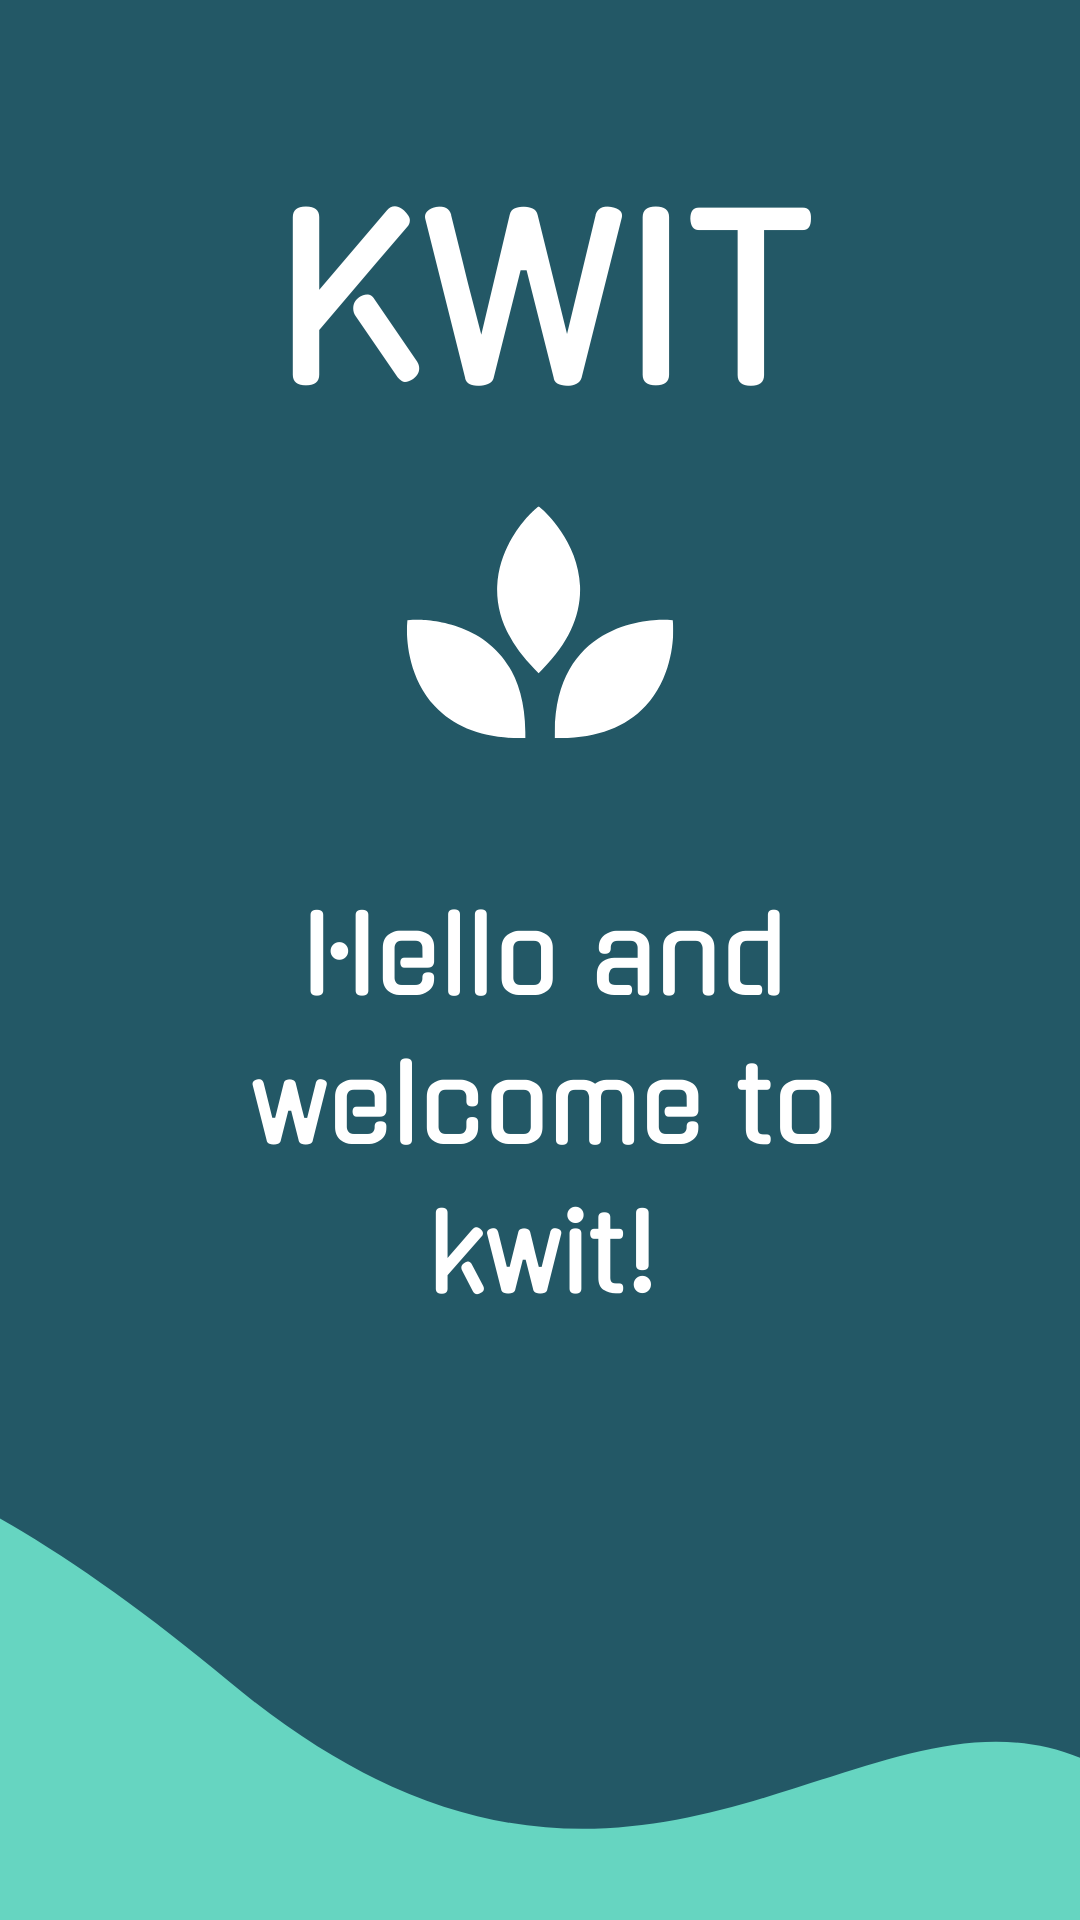
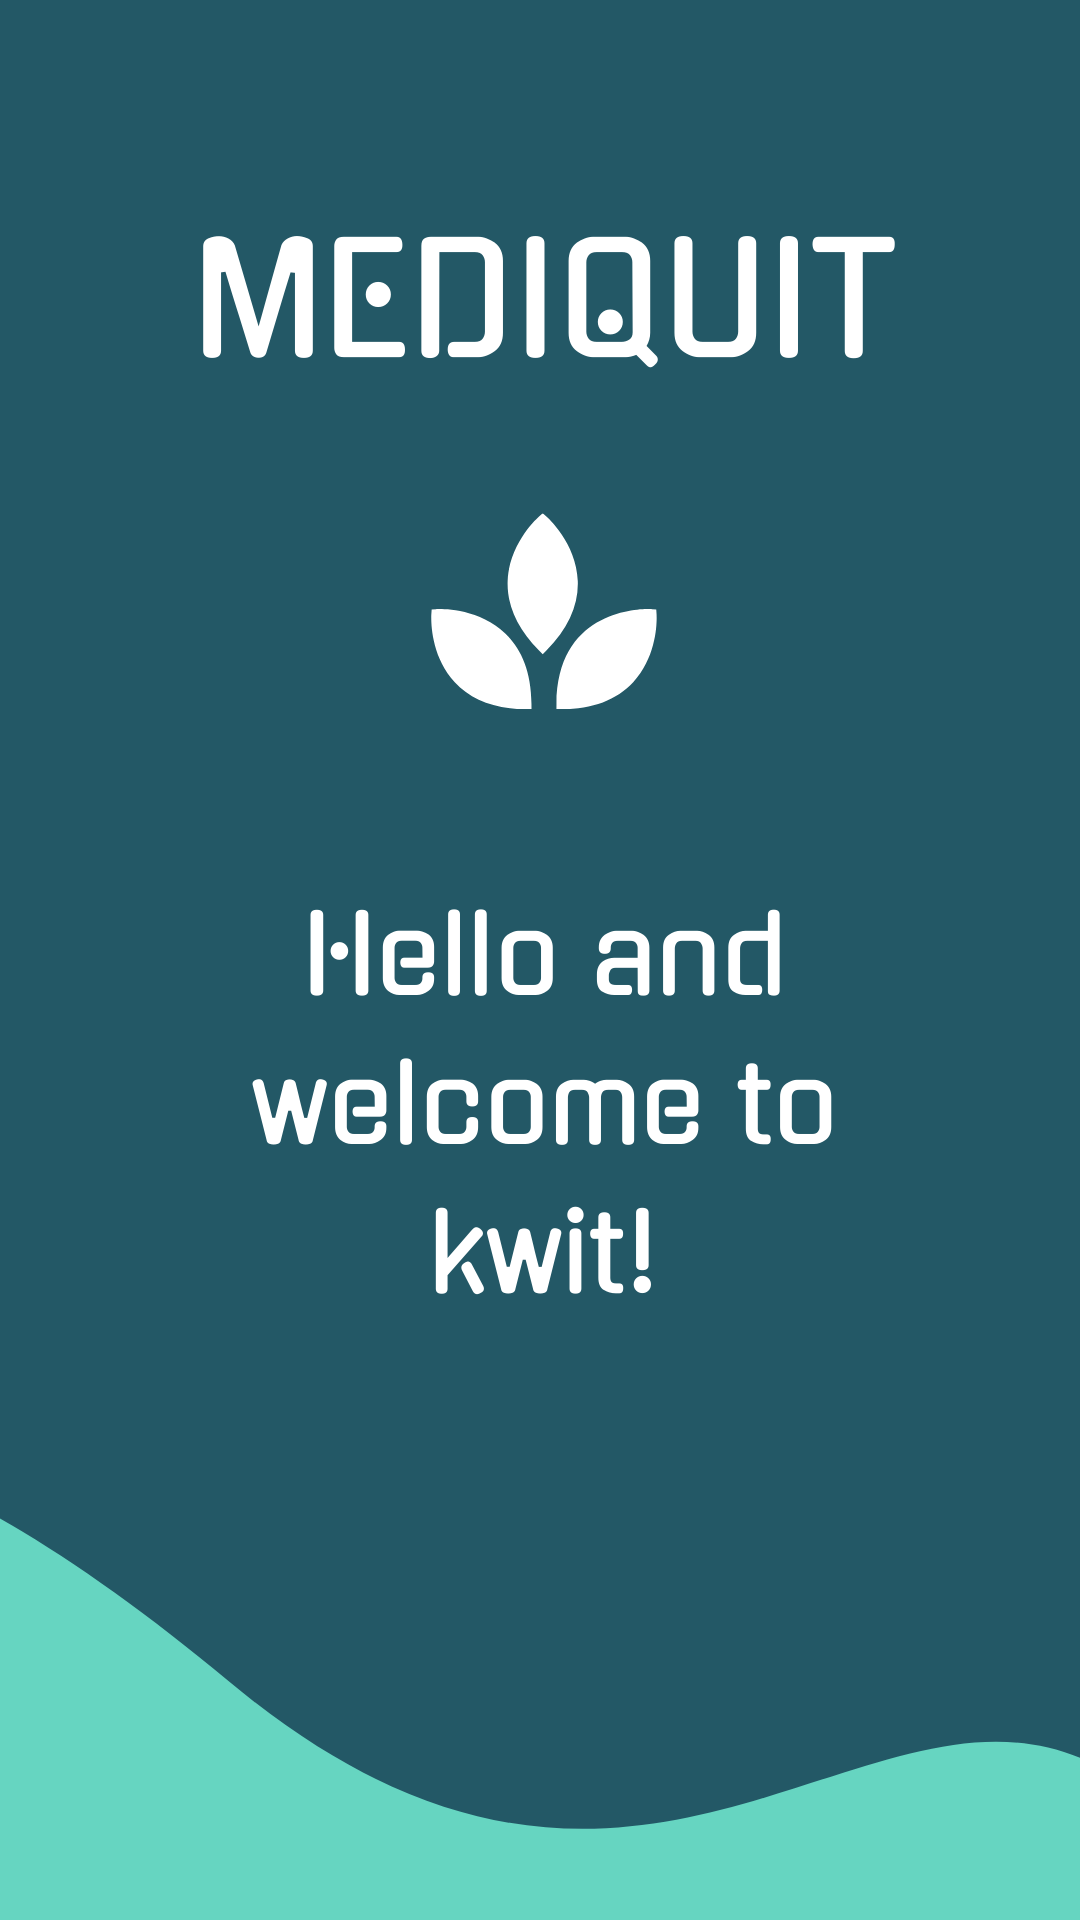
Added intro screens

Changed region(s): [[0.1833, 0.0938, 0.825, 0.2188], [0.3667, 0.2812, 0.6417, 0.4062], [0.4889, 0.25, 0.5194, 0.2812]]

diff --git a/lib/screens/intro2.dart b/lib/screens/intro2.dart
@@ -1,0 +1,47 @@
+import 'package:flutter/material.dart';
+import 'package:kwit/screens/intro1.dart';
+import 'package:kwit/screens/login.dart';
+
+class Intro2 extends StatelessWidget {
+  @override
+  Widget build(BuildContext context) {
+    return Scaffold(
+      body: Stack(
+        children: <Widget>[
+          Container(
+            decoration: BoxDecoration(
+              image: DecorationImage(
+                image: AssetImage('assets/intro2.png'),
+                fit: BoxFit.cover,
+              ),
+            ),
+          ),
+          SingleChildScrollView(
+            child: Column(
+              children: <Widget>[
+                new Container(
+                  alignment: Alignment.center,
+                  padding: EdgeInsets.only(top: 750.0, bottom: 20),
+                  child: RaisedButton.icon(
+                      onPressed: () {
+                        Navigator.push(context,
+                            MaterialPageRoute(builder: (context) => login()));
+                      },
+                      shape: RoundedRectangleBorder(
+                          borderRadius:
+                              BorderRadius.all(Radius.circular(30.0))),
+                      label: Text('I am ready to move on!',
+                          style: TextStyle(color: Colors.black, fontSize: 17)),
+                      icon: Icon(Icons.train_outlined, color: Colors.black),
+                      padding: const EdgeInsets.all(13.0),
+                      splashColor: Colors.lightBlue[200],
+                      color: const Color(0xFFABF6D4)),
+                ),
+              ],
+            ),
+          ),
+        ],
+      ),
+    );
+  }
+}

diff --git a/lib/screens/intro1.dart b/lib/screens/intro1.dart
@@ -1,0 +1,46 @@
+import 'package:flutter/material.dart';
+import 'package:kwit/screens/intro2.dart';
+
+class Intro1 extends StatelessWidget {
+  @override
+  Widget build(BuildContext context) {
+    return Scaffold(
+      body: Stack(
+        children: <Widget>[
+          Container(
+            decoration: BoxDecoration(
+              image: DecorationImage(
+                image: AssetImage('assets/intro1.png'),
+                fit: BoxFit.cover,
+              ),
+            ),
+          ),
+          SingleChildScrollView(
+            child: Column(
+              children: <Widget>[
+                new Container(
+                  alignment: Alignment.center,
+                  padding: EdgeInsets.only(top: 730.0, bottom: 20),
+                  child: RaisedButton.icon(
+                      onPressed: () {
+                        Navigator.push(context,
+                            MaterialPageRoute(builder: (context) => Intro2()));
+                      },
+                      shape: RoundedRectangleBorder(
+                          borderRadius:
+                              BorderRadius.all(Radius.circular(30.0))),
+                      label: Text('I am ready to move on!',
+                          style: TextStyle(color: Colors.black, fontSize: 17)),
+                      icon: Icon(Icons.train_outlined, color: Colors.black),
+                      padding: const EdgeInsets.all(13.0),
+                      splashColor: Colors.lightBlue[200],
+                      color: const Color(0xFFABF6D4)),
+                ),
+              ],
+            ),
+          ),
+        ],
+      ),
+    );
+  }
+}

diff --git a/lib/main.dart b/lib/main.dart
@@ -1,6 +1,7 @@
 import 'package:flutter/material.dart';
 import 'package:flutter/material.dart';
 import 'package:kwit/screens/dashboard.dart';
+import 'package:kwit/screens/intro1.dart';
 import 'package:kwit/screens/login.dart';
 
 void main() {
@@ -13,7 +14,7 @@ class App extends StatelessWidget {
     return MaterialApp(
       debugShowCheckedModeBanner: false,
       title: "Mediquit",
-      home: MyApp(),
+      home: Intro1(),
     );
   }
 }
